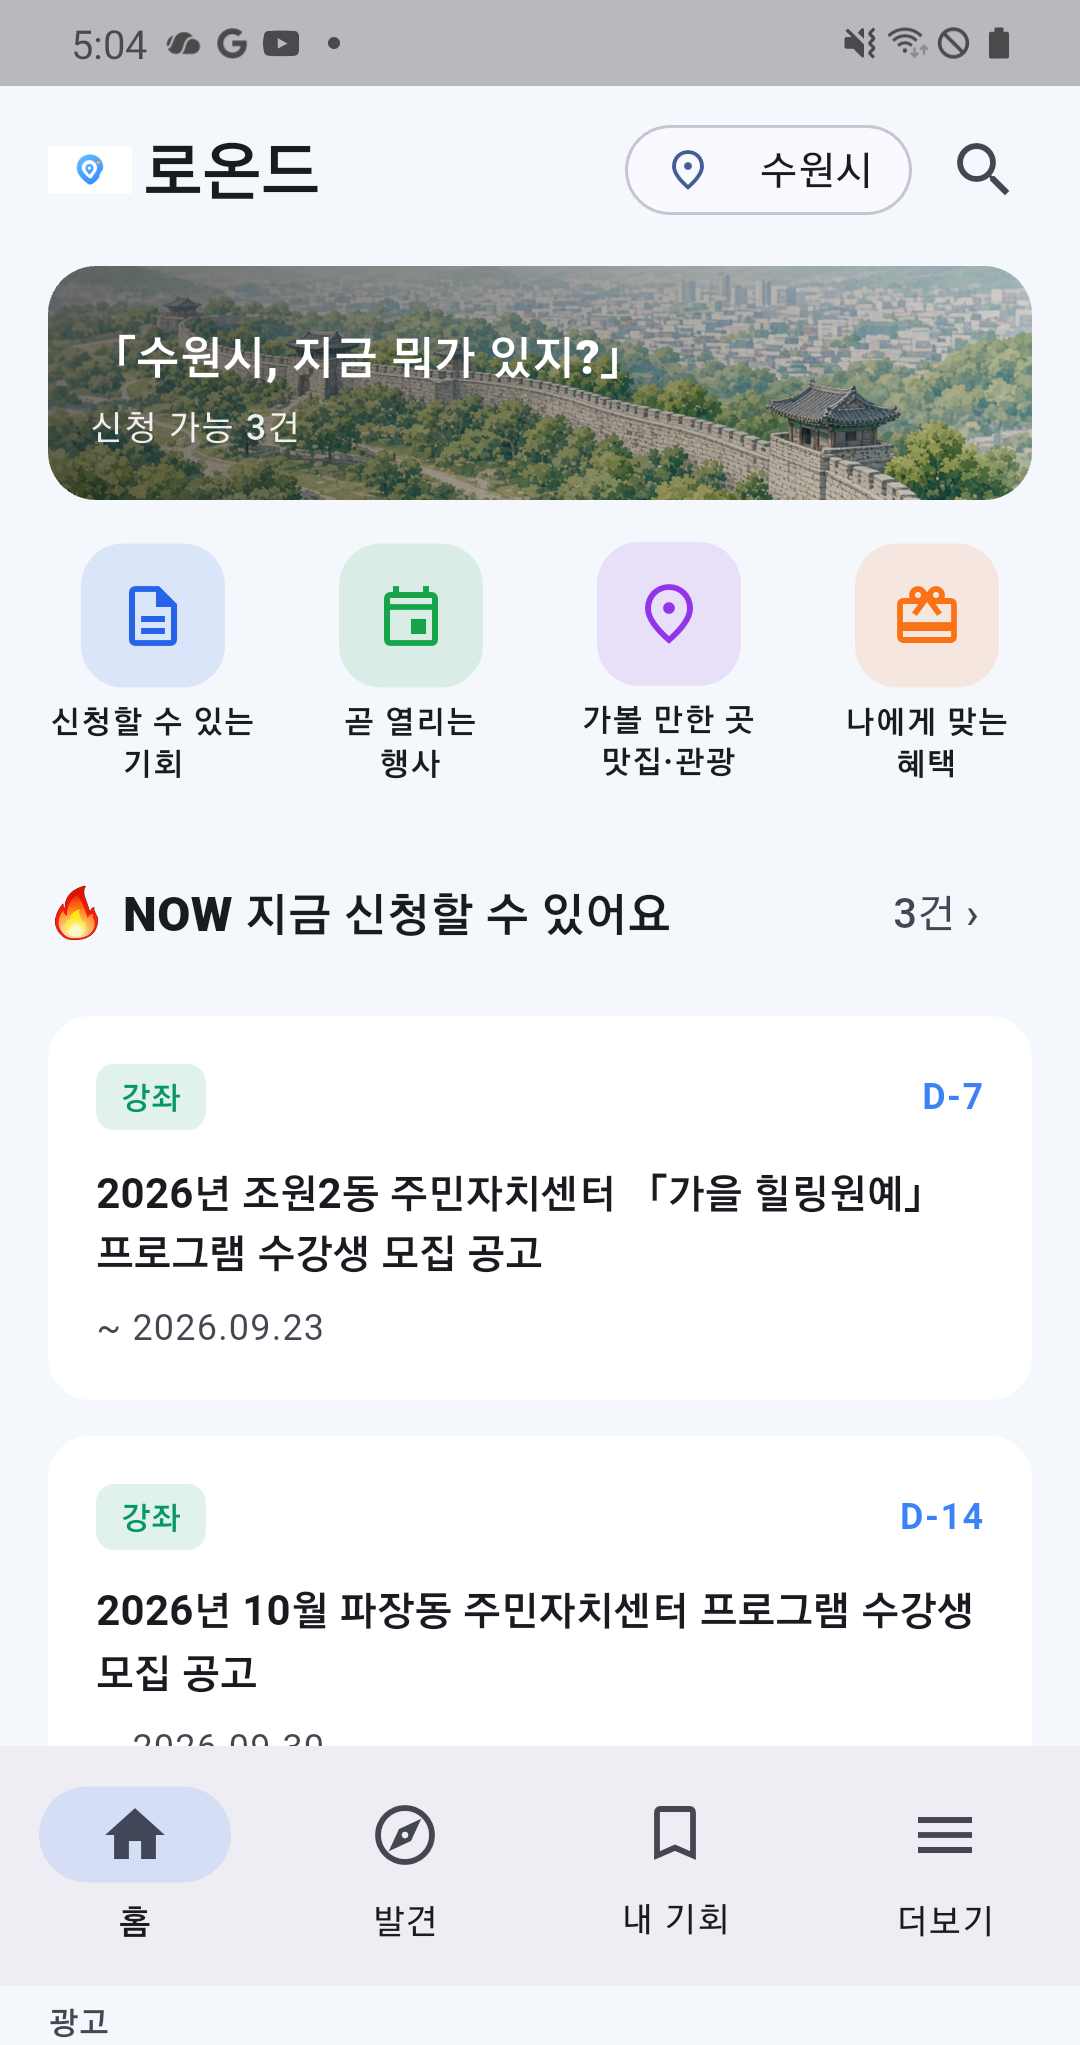
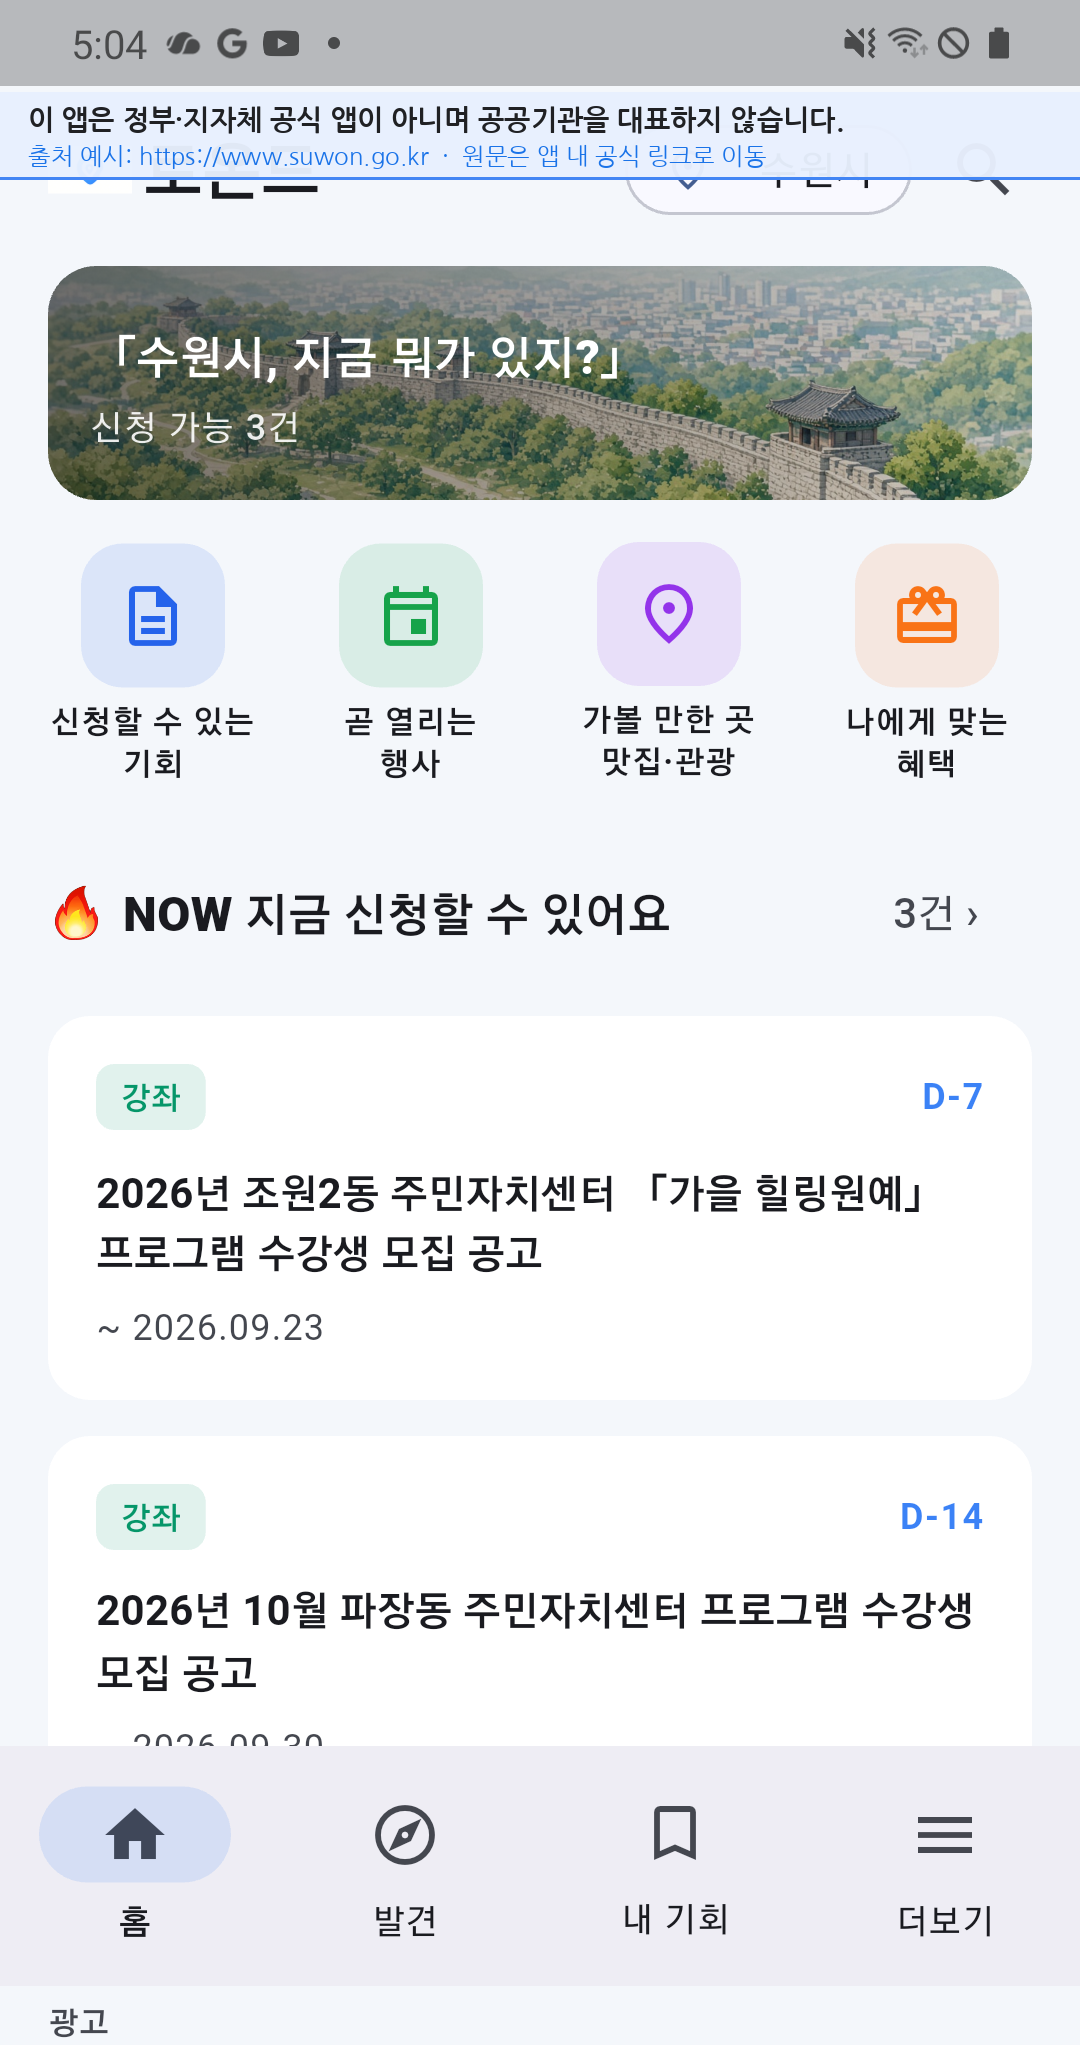
fix(store): Play Misleading Claims — clear disclaimer + .go.kr sources
Strengthen ko-KR short/full listing with explicit non-gov affiliation
disclaimer and suwon.go.kr welfare URLs; refresh Play screenshots
(especially more-tab / APP_SCREENSHOT-860) with visible 면책 + source cue;
align in-app 출처 안내 copy.

Changed region(s): [[0.0306, 0.0308, 0.8556, 0.0924], [0.8861, 0.0616, 0.9472, 0.0924]]

diff --git a/app/lib/ui/settings_screen.dart b/app/lib/ui/settings_screen.dart
@@ -32,12 +32,25 @@ class SettingsScreen extends StatelessWidget {
             trailing: const Icon(Icons.open_in_new, size: 18),
             onTap: () => _openPrivacy(context),
           ),
-          const ListTile(
-            title: Text('출처 안내'),
-            subtitle: Text(
-              '본 앱은 정부기관을 대표하거나 제휴하지 않습니다. 공고·행사 정보는 각 공식 원문을 요약·안내하며, 일정·자격·접수는 반드시 원문 URL에서 확인하세요.',
+          const Padding(
+            padding: EdgeInsets.fromLTRB(16, 8, 16, 8),
+            child: Column(
+              crossAxisAlignment: CrossAxisAlignment.start,
+              children: [
+                Text(
+                  '출처 · 면책 안내',
+                  style: TextStyle(fontWeight: FontWeight.w600, fontSize: 16),
+                ),
+                SizedBox(height: 6),
+                Text(
+                  '이 앱은 정부·지자체 공식 앱이 아니며 공공기관을 대표하지 않습니다. '
+                  '공고·행사 정보는 공개 고시/공고를 모아 안내하며, 원문은 '
+                  'https://www.suwon.go.kr 등 공식 사이트로 이동합니다. '
+                  '일정·자격·접수는 반드시 원문에서 확인하세요.',
+                  style: TextStyle(fontSize: 13, height: 1.35, color: Color(0xFF5F6368)),
+                ),
+              ],
             ),
-            isThreeLine: true,
           ),
           const ListTile(
             title: Text('문의'),

diff --git a/app/lib/ui/tabs/more_tab.dart b/app/lib/ui/tabs/more_tab.dart
@@ -64,12 +64,25 @@ class MoreTab extends StatelessWidget {
           onTap: () => _openPrivacy(context),
         ),
         const Divider(),
-        const ListTile(
-          title: Text('출처 안내'),
-          subtitle: Text(
-            '본 앱은 정부기관을 대표하거나 제휴하지 않습니다. 공고·행사 정보는 각 공식 원문을 요약·안내하며, 일정·자격·접수는 반드시 원문 URL에서 확인하세요.',
+        const Padding(
+          padding: EdgeInsets.fromLTRB(16, 8, 16, 8),
+          child: Column(
+            crossAxisAlignment: CrossAxisAlignment.start,
+            children: [
+              Text(
+                '출처 · 면책 안내',
+                style: TextStyle(fontWeight: FontWeight.w600, fontSize: 16),
+              ),
+              SizedBox(height: 6),
+              Text(
+                '이 앱은 정부·지자체 공식 앱이 아니며 공공기관을 대표하지 않습니다. '
+                '공고·행사 정보는 공개 고시/공고를 모아 안내하며, 원문은 '
+                'https://www.suwon.go.kr 등 공식 사이트로 이동합니다. '
+                '일정·자격·접수는 반드시 원문에서 확인하세요.',
+                style: TextStyle(fontSize: 13, height: 1.35, color: Color(0xFF5F6368)),
+              ),
+            ],
           ),
-          isThreeLine: true,
         ),
         const ListTile(
           title: Text('앱 정보'),

diff --git a/app/lib/ui/detail_screen.dart b/app/lib/ui/detail_screen.dart
@@ -237,8 +237,8 @@ class _DetailScreenState extends State<DetailScreen> {
                 ),
                 const SizedBox(height: 8),
                 Text(
-                  '로온드는 정부기관을 대표·제휴하지 않습니다. '
-                  '정확한 내용은 아래 공식 원문에서 확인하세요.',
+                  '이 앱은 정부·지자체 공식 앱이 아니며 공공기관을 대표하지 않습니다. '
+                  '정확한 내용은 아래 공식 원문(.go.kr 등)에서 확인하세요.',
                   style: theme.textTheme.bodySmall?.copyWith(
                     color: theme.colorScheme.onSurfaceVariant,
                   ),

diff --git a/docs/store/play-reject-misleading-claims-fix.md b/docs/store/play-reject-misleading-claims-fix.md
@@ -1,21 +1,27 @@
-# 로온드 — 스토어 리스팅 초안 (한국어)
+# Play 정책 재제출 — Misleading Claims (혼동을 야기하는 주장)
 
-## 앱 이름
-**로온드**
+- 일시: 2026-09-22 (KST)
+- 트랙: 비공개(클로즈드) 테스트 / Alpha submission #2
+- 플래그: ko-KR **긴 설명** + 스크린샷 **APP_SCREENSHOT-860.png**
 
-## Play 앱 만들기 필드
-- 패키지 이름: `com.loond.loond` (변경 불가 · applicationId와 동일)
-- 기본 언어: 한국어(ko-KR)
-- 앱 / 무료
-- 그래픽: `docs/store/play/icon-512.png`, `feature-graphic.png`
-- 스크린샷: `docs/store/screenshots/play/` (업로드용) · 원본 `docs/store/screenshots/phone/`
+## 원인 (리뷰어 지적)
+1. 공식 정부 출처 링크(.go.kr)가 스토어 문구/스샷에서 충분히 명확하지 않음
+2. 비공식(비정부) 소속 면책이 충분히 명확하지 않음
 
-## 짧은 설명 (≈80자 이내) — 콘솔 붙여넣기용
+## 조치 요약
+| 항목 | 경로 |
+|------|------|
+| 짧은·긴 설명 (붙여넣기용) | `docs/store/listing-ko.md` |
+| 플래그 스샷 교체본 | `docs/store/screenshots/play/APP_SCREENSHOT-860-replacement.png` (= `03-more.png`) |
+| 추가 면책 배너 스샷 | `01-home.png`, `04-detail.png`, `05-apply-list.png` |
+| 인앱 면책 문구 | `app/lib/ui/tabs/more_tab.dart`, `settings_screen.dart`, `detail_screen.dart` |
+
+## 콘솔 붙여넣기 — 짧은 설명
 ```
 이 앱은 정부·지자체 공식 앱이 아닙니다. 수원 등 공고·행사를 모아 공식 원문으로 안내.
 ```
 
-## 긴 설명 — 콘솔 붙여넣기용
+## 콘솔 붙여넣기 — 긴 설명
 ```
 【중요 · 면책】이 앱은 정부·지자체 공식 앱이 아니며 공공기관을 대표하지 않습니다. 로온드는 민간에서 만든 비공식 안내 앱이며, 수원특례시·정부기관과 제휴·위탁·운영 관계가 없습니다.
 
@@ -49,34 +55,15 @@
 문의: contact@loond.example (플레이스홀더)
 ```
 
-## 키워드 (초안)
-수원, 수원특례시, 공고, 신청, 행사, 축제, 관광, 청년, 시민, 공공, 모집, 로온드, loond, 기회, 문화, 비공식
+## Play Console 체크리스트 (부모 에이전트/사용자)
+1. [ ] **스토어 등록정보(ko-KR)** → 짧은 설명·긴 설명 위 텍스트로 **교체 후 저장**
+2. [ ] **그래픽 자산 / 휴대폰 스크린샷** → 플래그된 `APP_SCREENSHOT-860.png`를  
+      `docs/store/screenshots/play/APP_SCREENSHOT-860-replacement.png` 로 **교체**  
+      (동일 파일: `03-more.png` — 더보기 탭에 면책 + `suwon.go.kr` URL 표시)
+3. [ ] (권장) 같은 폴더의 `01-home.png`, `04-detail.png`, `05-apply-list.png` 도 함께 재업로드 (상단 면책 배너)
+4. [ ] **정책** / **게시 개요**에서 변경사항 저장 후 **Alpha / 비공개 테스트 재제출**
+5. [ ] 이 박스는 Play Console에 제출하지 않음 — 콘솔 업로드는 부모/사용자 수행
 
-## 카테고리 제안
-라이프스타일 / 뉴스 및 잡지 / 여행 및 지역정보 (스토어 정책에 맞게 1개 선택)
-
-## 스크린샷 체크리스트
-- [x] 홈 NOW — APPLY 섹션
-- [x] 내 기회 / 더보기
-- [x] 상세 — 제목, D-Day, 원문 버튼
-- [x] 더보기 — 면책·출처(.go.kr) 문구가 화면에 보임 (`play/03-more.png`)
-- [ ] 가로·세로 비율·스토어 권장 해상도 준수 (Play 가이드)
-
-### Play 정책 재제출 (Misleading Claims) — 2026-09-22
-- 신고: Alpha #2 · ko-KR 긴 설명 + `APP_SCREENSHOT-860.png`
-- 조치: 본 문서 짧은/긴 설명 교체 · `docs/store/screenshots/play/03-more.png` (및 `APP_SCREENSHOT-860-replacement.png`)에 면책+suwon.go.kr 표시
-- 상세 체크리스트: `docs/store/play-reject-misleading-claims-fix.md`
-
-## 내부 테스트 메모
-- [ ] Play Console **비공개(클로즈드) 테스트 / Alpha** 트랙 재제출
-- [ ] 스토어 등록정보: 짧은·긴 설명 붙여넣기 후 저장
-- [ ] 플래그된 스크린샷을 `APP_SCREENSHOT-860-replacement.png`(= `play/03-more.png`)로 교체
-- [ ] 개인정보처리방침 URL 일치 확인
-
-## 비고
-- 스토어 개인정보 URL: 당분간 GitHub `docs/legal/privacy-policy.md` 가능, **배포 시 전용 HTTPS 페이지로 교체**
-- AdMob **운영(프로덕션) 유닛 ID는 문서·리스팅에 기재하지 않음**
-
-## 촬영본
-- Play 업로드: `docs/store/screenshots/play/`
-- 실기기 원본: `docs/store/screenshots/phone/`
+## 검증된 공식 URL
+- `https://www.suwon.go.kr` (시 포털)
+- `https://www.suwon.go.kr/sw-www/deptHome/dep_welfare/welfare14/welfare14-04/welfare14-04-03.jsp` (청년기본소득 · HTTP 200 확인)

diff --git a/docs/store/screenshots/play/README.md b/docs/store/screenshots/play/README.md
@@ -3,11 +3,13 @@
 - 하단 **테스트 광고** 띠 + 시스템 내비 제거 (NavigationBar까지 유지)
 - **발견** 탭 스샷 제외 (상호·업체명 노출)
 - 원본(광고 포함): `../phone/`
+- **2026-09-22 Misleading Claims 수정**: 면책 + `suwon.go.kr` 출처를 스샷에 명시
 
 | 파일 | 내용 |
 |------|------|
-| `01-home.png` | 홈 |
+| `01-home.png` | 홈 (+ 상단 면책 배너) |
 | `02-mychance.png` | 내 기회 |
-| `03-more.png` | 더보기 |
-| `04-detail.png` | 상세 |
-| `05-apply-list.png` | 신청 전체 목록 |
+| `03-more.png` | 더보기 · 출처·면책 카드 (**APP_SCREENSHOT-860 교체본**) |
+| `04-detail.png` | 상세 (+ 상단 면책 배너) |
+| `05-apply-list.png` | 신청 전체 목록 (+ 상단 면책 배너) |
+| `APP_SCREENSHOT-860-replacement.png` | `03-more.png`와 동일 · 콘솔 플래그 스샷 교체용 |
